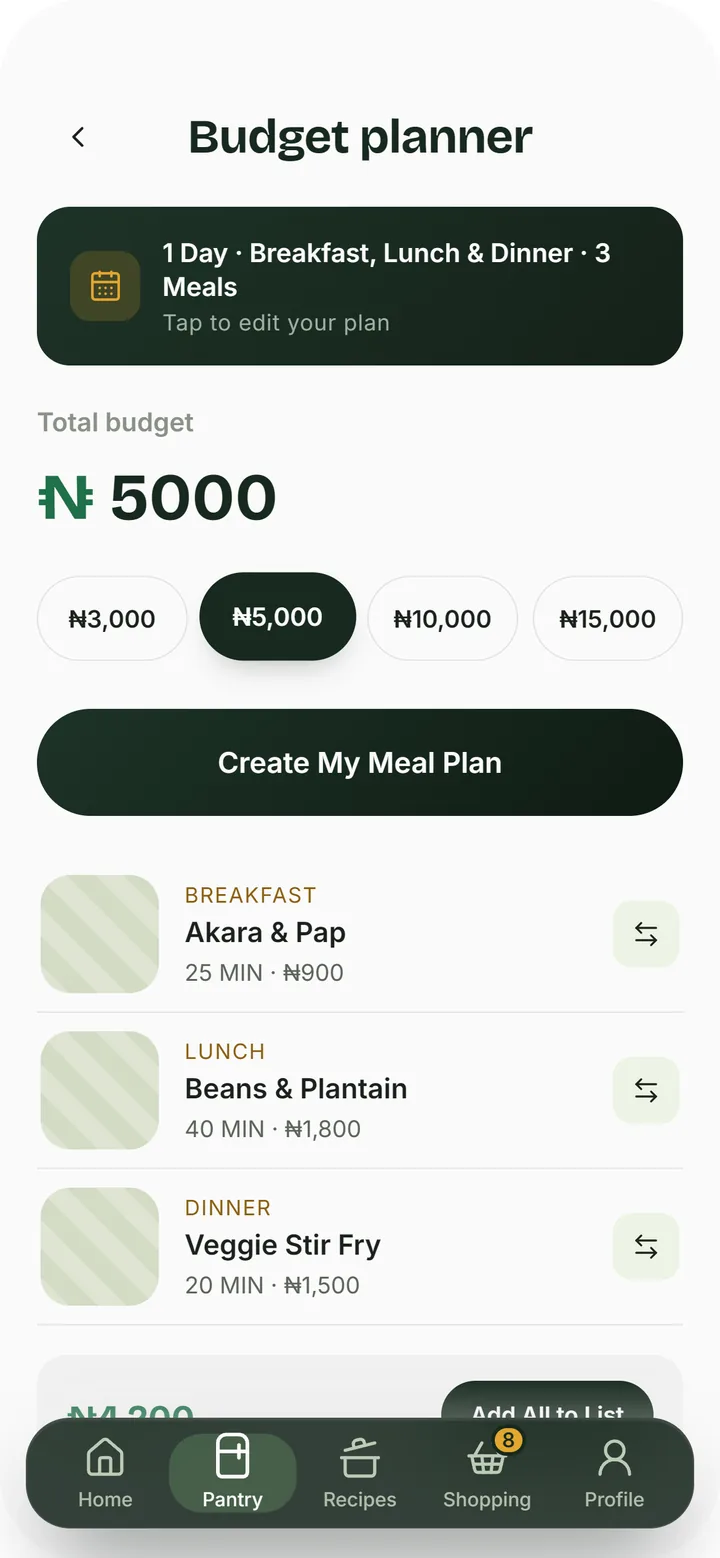
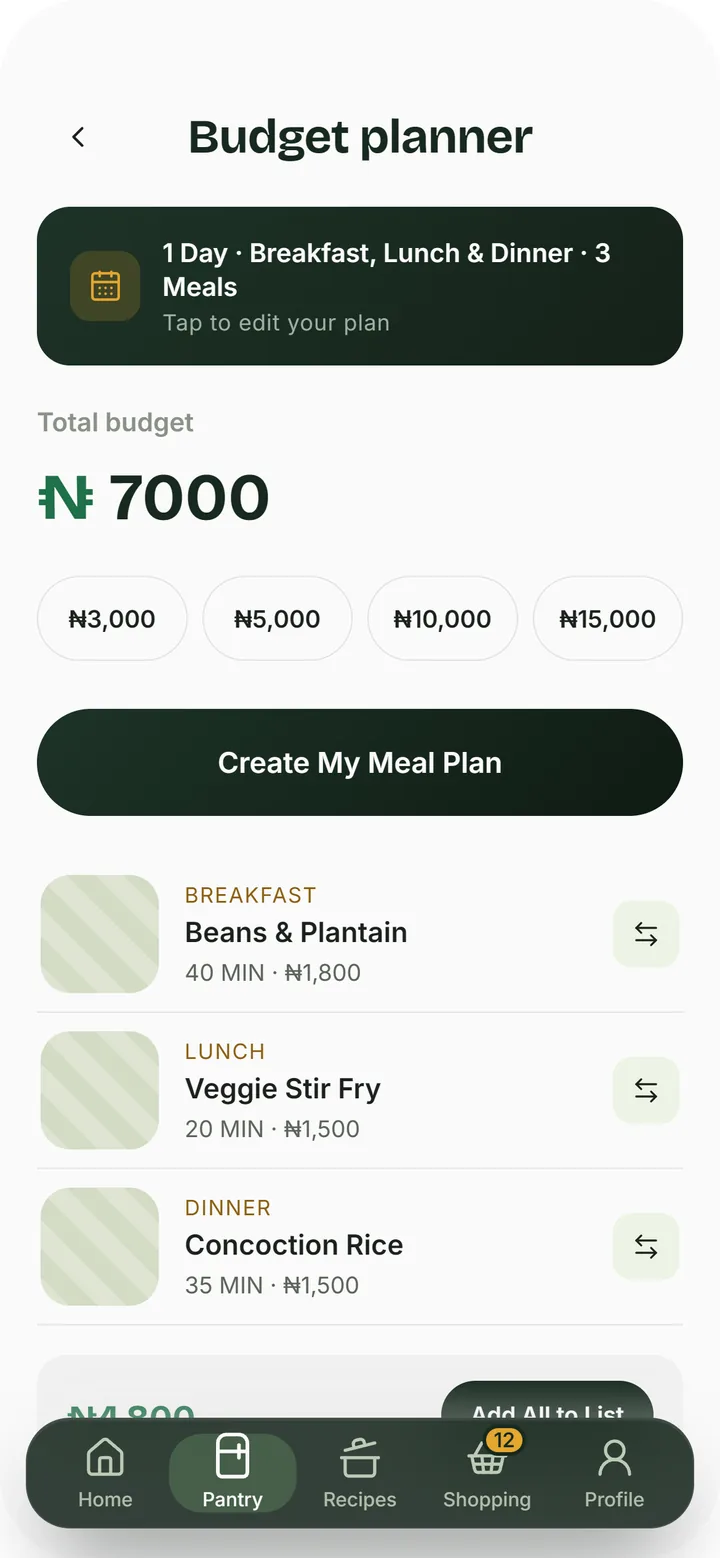
Show a ₦7,000 day in the budget tile, matching its copy

diff --git a/src/content/landing.ts b/src/content/landing.ts
@@ -108,7 +108,7 @@ export const kitchen: { lines: string[]; statement: string; tiles: Tile[] } = {
     {
       title: 'Planned around your budget',
       text: 'Tell it you have ₦7,000 for the day, and it plans breakfast, lunch and dinner that cost less than that. If three meals won’t fit, it tells you the lowest budget that will.',
-      screen: { src: screenBudget, ...SCREEN, alt: 'The budget planner with ₦5,000 picked: akara and pap for breakfast, beans and plantain for lunch, and a veggie stir fry for dinner.' },
+      screen: { src: screenBudget, ...SCREEN, alt: 'The budget planner with ₦7,000 entered: beans and plantain for breakfast, a veggie stir fry for lunch, and concoction rice for dinner.' },
     },
     {
       title: 'In the sizes you buy',
